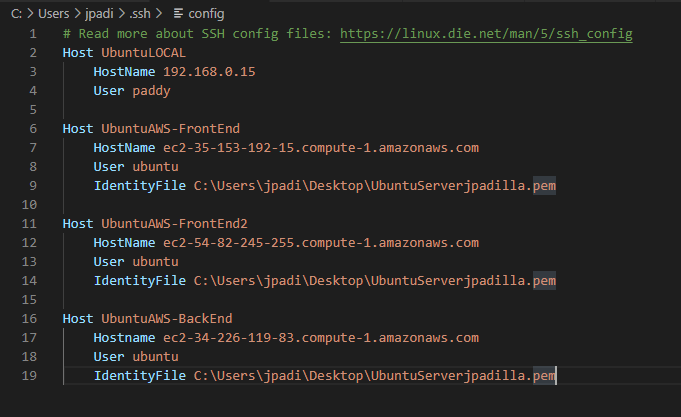
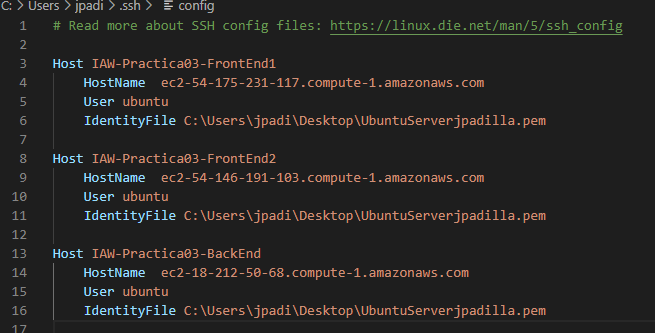
Planteamiento
Corregido scripts, preparada documentación. Fallo con IP_PRIVADA fruto de duplicación.

Changed region(s): [[0.0, 0.0, 0.9466, 0.6907], [0.0, 0.5706, 0.855, 0.961], [0.0, 0.991, 0.0611, 1.0]]

diff --git a/README.md b/README.md
@@ -17,7 +17,7 @@ Ciclo: CFGS Administración de Sistemas Informáticos en Red
 Vamos a las instancias de AWS como en la práctica y levantamos tres máquinas. Una será la front-end (apache), otra la front-end secundaria y otra la back-end(MySQL) y le pondremos las etiquetas correspondientes para facilitar su configuración. Esta vez necesitaremos añadir un nuevo host a nuestro archivo de configuración de ssh de Visual Code, como en la imagen.
 ![](/images/1.png)
 
-Abrimos las tres terminales SSH en el editor de VS Code. Lanzamos el script front_end.sh en ambas máquinas las front_end, apuntando a la dirección de nuestro back-end. Lanzamos así el script correspondiente en la máquina back-end, back_end.sh
+Abrimos las tres terminales SSH en el editor de VS Code. Lanzamos el script front_end.sh en ambas máquinas front_end, apuntando a la dirección de nuestro back-end (Hay que introducir la variable IP_PRIVADA en cada instancia antes de lanzar el archivo.sh). Lanzamos así el script correspondiente en la máquina back-end, back_end.sh
 
 Repetimos la operación de la práctica anterior, pero ahora podremos acceder a nuestro servidor desde cualquiera de las direcciones IP públicas de nuestras instancias, asegurando una mayor disponibilidad.
 ![](/images/2.png)
@@ -26,3 +26,4 @@ Repetimos la operación de la práctica anterior, pero ahora podremos acceder a 
 *front_end secundaria*
 
 Probaremos ambas máquinas con la IP pública, tanto para introducir datos como para ver los datos resultantes.
+
